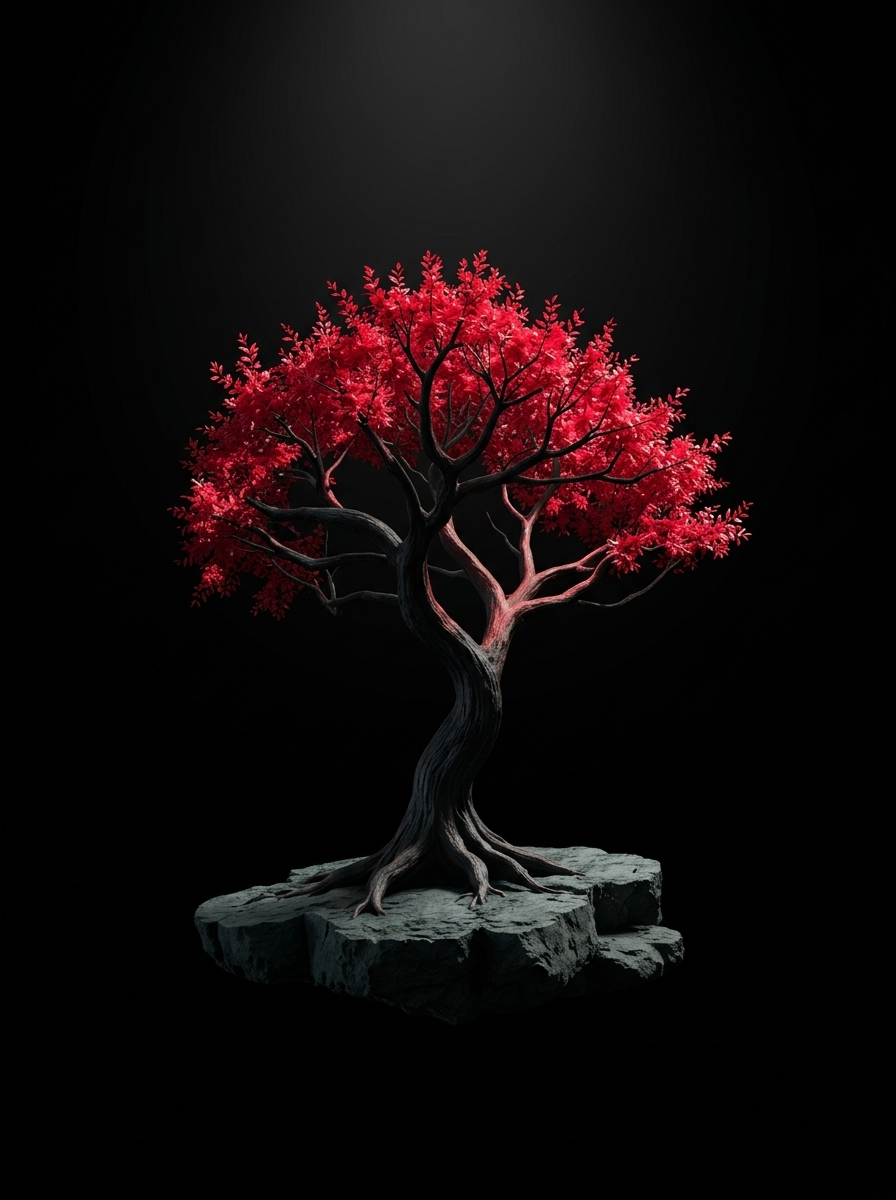
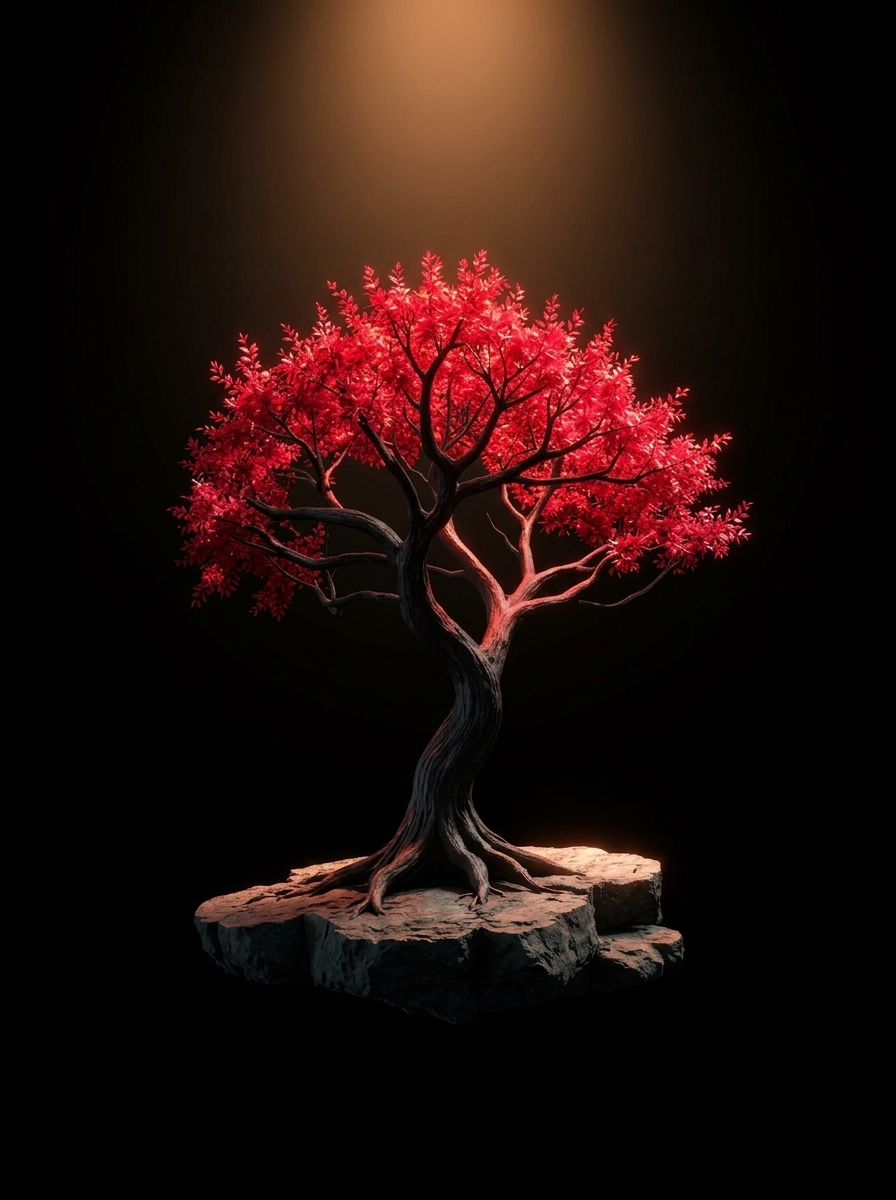
feat(ui): update crimson bonsai tree asset, scale spotlight pendant and refine illumination stage

Changed region(s): [[0.1875, 0.0, 0.8438, 0.555], [0.2188, 0.6783, 0.7812, 0.8017], [0.4062, 0.4317, 0.4375, 0.4625]]

diff --git a/src/components/hero-showcase.tsx b/src/components/hero-showcase.tsx
@@ -129,7 +129,7 @@ export function HeroShowcase() {
 
           {/* Volumetric Downward Spotlight Cone on the Red Tree */}
           <div
-            className={`pointer-events-none absolute top-48 left-1/2 z-10 -translate-x-1/2 transition-all duration-700 ${
+            className={`pointer-events-none absolute top-32 left-1/2 z-10 -translate-x-1/2 transition-all duration-700 ${
               isLampOn ? "scale-100 opacity-100" : "scale-95 opacity-0"
             }`}
             style={{
@@ -143,7 +143,7 @@ export function HeroShowcase() {
 
           {/* Central Conic Light Beam Casting Down from Bell Rim */}
           <div
-            className={`pointer-events-none absolute top-52 left-1/2 z-10 -translate-x-1/2 transition-all duration-700 ${
+            className={`pointer-events-none absolute top-36 left-1/2 z-10 -translate-x-1/2 transition-all duration-700 ${
               isLampOn ? "opacity-80" : "opacity-0"
             }`}
             style={{
@@ -205,10 +205,10 @@ export function HeroShowcase() {
                   fill
                   priority
                   sizes="(max-width: 640px) 280px, (max-width: 768px) 360px, (max-width: 1024px) 420px, 460px"
-                  className={`object-contain mix-blend-screen transition-all duration-700 ${
+                  className={`object-contain transition-all duration-700 ${
                     isLampOn
-                      ? "brightness-[1.15] contrast-[1.1] drop-shadow-[0_0_50px_rgba(225,29,72,0.6)] saturate-[1.25]"
-                      : "opacity-25 brightness-75 contrast-125 drop-shadow-none saturate-50"
+                      ? "brightness-[1.12] contrast-[1.08] drop-shadow-[0_0_50px_rgba(225,29,72,0.5)] saturate-[1.2]"
+                      : "opacity-25 brightness-[0.25] contrast-[0.95] drop-shadow-none saturate-[0.25]"
                   }`}
                 />
               </div>

diff --git a/src/app/bell-lamp.css b/src/app/bell-lamp.css
@@ -6,13 +6,13 @@
 }
 
 .bell-lamp-scope {
-  --_size: min(min(320px, 30vh), 32vw);
+  --_size: min(min(220px, 22vh), 26vw);
   --base-clr: #b7b5b4;
   --degofrot: 0.8;
   font-size: calc(var(--_size) * 0.01);
   position: relative;
   width: 80em;
-  height: 68em;
+  height: 62em;
   margin: 0 auto;
   display: flex;
   justify-content: center;
@@ -20,9 +20,9 @@
 
 @media (max-width: 640px) {
   .bell-lamp-scope {
-    --_size: min(min(250px, 25vh), 56vw);
+    --_size: min(min(170px, 18vh), 42vw);
     width: 80em;
-    height: 60em;
+    height: 56em;
   }
 }
 
@@ -52,10 +52,12 @@
     rotate: calc(1deg * var(--degofrot));
     transform: rotate(calc(1deg * var(--degofrot)));
   }
+
   50% {
     rotate: calc(-1deg * var(--degofrot));
     transform: rotate(calc(-1deg * var(--degofrot)));
   }
+
   100% {
     rotate: calc(1deg * var(--degofrot));
     transform: rotate(calc(1deg * var(--degofrot)));
@@ -526,6 +528,7 @@
     rotate: 0deg;
     transform: rotate(0deg);
   }
+
   100% {
     rotate: 6deg;
     transform: rotate(6deg);
@@ -656,12 +659,14 @@
       inset calc(-0.2em * var(--degofrot)) 1em 1em 0 rgba(255, 255, 255, 0.12),
       inset calc(-0.2em * var(--degofrot)) 0.2em 0.4em 0 #e3b695;
   }
+
   50% {
     box-shadow:
       inset 0 0.04em 0.06em 0 #fff,
       inset calc(0.2em * var(--degofrot)) 1em 1em 0 rgba(255, 255, 255, 0.12),
       inset calc(0.2em * var(--degofrot)) 0.2em 0.4em 0 #e3b695;
   }
+
   100% {
     box-shadow:
       inset 0 0.04em 0.06em 0 #fff,
@@ -674,9 +679,11 @@
   0% {
     translate: calc(-0.8em * var(--degofrot));
   }
+
   50% {
     translate: calc(0.8em * var(--degofrot));
   }
+
   100% {
     translate: calc(-0.8em * var(--degofrot));
   }
